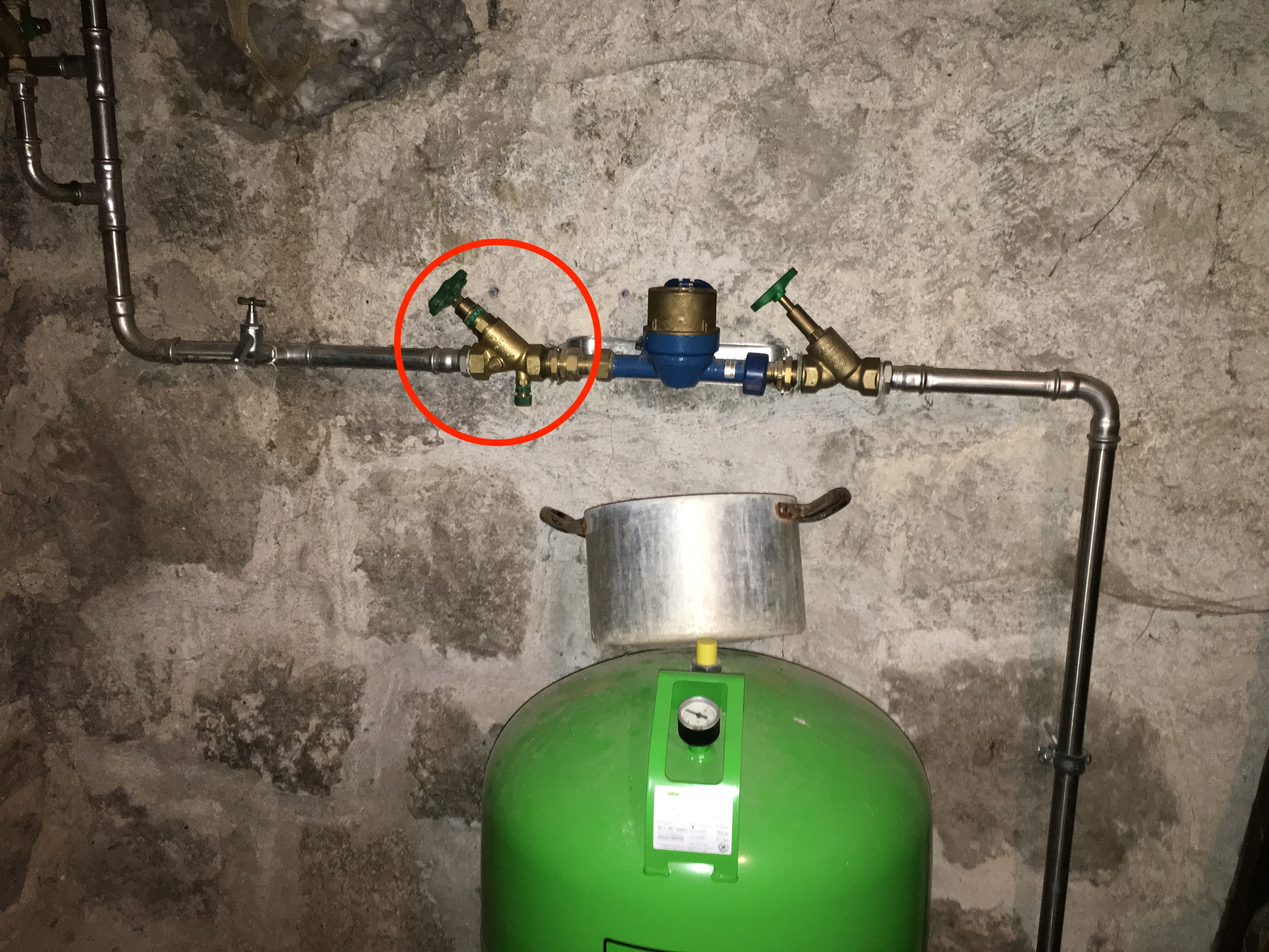
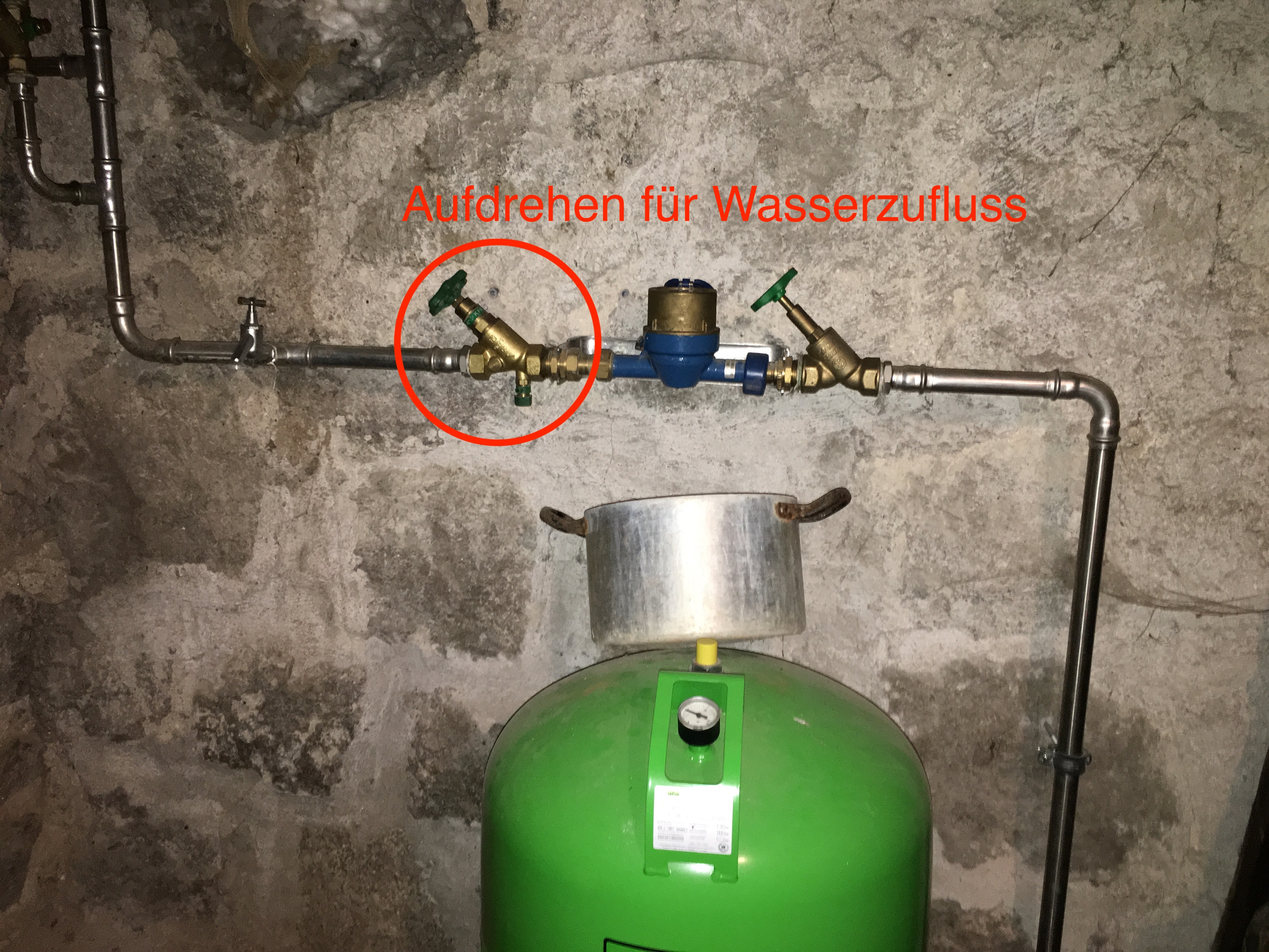
Added Text for Haustechnik

Changed region(s): [[0.3125, 0.1865, 0.8125, 0.2487]]

diff --git a/haustechnik.html b/haustechnik.html
@@ -112,7 +112,8 @@
 
 	<div class="col-md-12">
 		<h2>Wasser und Wasserdruck</h2>
-		<p>Hier war die Idee, die gelben Teppichplatten sowie die normalen Teppiche zu entfernen. Unter den gelben Teppichplatten befinden sich die gleichen Dielen wie im Wohnzimmer. Sie sind in sehr gutem Zustand und müssten „nur" geschliffen und eingeölt werden. Damit es etwas heller wird, wären neue helle Lampen (LED) gut und unter der Treppe eine indirekte Beleuchtung in Form von einer LED-Leiste, die im Deckenüberhang gut versteckt werden kann. </p>
+		<p>Als erstes muss der Hahn für die Wasserzufuhr aufgedreht werden. Damit der Wasserdruck ausreichend ist muss wie im zweiten Bild zu sehen die Pumpe nach links gedreht werden.
+			 <br>Am Ende des Aufenthalts bitte die Pumpe wieder ausgeschalten und den Hahn zudrehen	.</p>
 		<div class="row">
 			<div class="col-md-6">
 											<!--href gibt angeklicktes Bild zurück, src das was auf der Seite angezeigt wird   //matthiasheg.github.io/schwarzwaldhaus.github.io/Bilder/Erdgeschoss/Eingangsbereich1.JPG -->
@@ -123,6 +124,23 @@
 			</div>
 		</div>
 		</div>
+
+		<div class="col-md-12">
+			<h2>Warmwasser im Bad</h2>
+			<p>Im Nebenraum (Garage) müssen im Hauptsicherungskasten die ersten 3 Sicherungen von links eingeschaltet werden. Damit wird der große Boiler mit Strom versorgt.
+					<br>Auf der Anzeige des Boilers ist die vorhandene Warmwassermenge in Liter zu sehen.
+					<br>Der Hahn rechts neben dem Boiler (s. Bild) ist die Leitung, für das warme Wasser in Richtung Bad. Aktuell läuft der Boiler über (Wasser tropft unterhalb des Boilers raus), wenn man den Hahn aufreht ohne im Bad Warmwasser zu entnehmen. Wenn man Warmwasser im Bad entnimmt hält sich der Überlauf in Grenzen und so kann man wenigstens warm duschen.
+					<br>Am Ende des Aufenthalts bitte die Sicherungen wieder rausmachen und so den Boiler ausschalten.</p>
+			<div class="row">
+				<div class="col-md-6">
+												<!--href gibt angeklicktes Bild zurück, src das was auf der Seite angezeigt wird   //matthiasheg.github.io/schwarzwaldhaus.github.io/Bilder/Erdgeschoss/Eingangsbereich1.JPG -->
+					<p><a href="//matthiasheg.github.io/schwarzwaldhaus.github.io/Bilder/Haustechnik/WarmwasserBoiler2.jpg" class="image-popup"><img src="//matthiasheg.github.io/schwarzwaldhaus.github.io/Bilder/Haustechnik/WarmwasserBoiler2.jpg" alt="Anzeige nicht möglich. Klicken um das Bild zu sehen" class="img-responsive img-rounded"></a></p>
+				</div>
+				<div class="col-md-6">
+					<p><a href="//matthiasheg.github.io/schwarzwaldhaus.github.io/Bilder/Haustechnik/WarmwasserBoiler1.jpg" class="image-popup"><img src="//matthiasheg.github.io/schwarzwaldhaus.github.io/Bilder/Haustechnik/WarmwasserBoiler1.jpg" alt="Anzeige nicht möglich. Klicken um das Bild zu sehen" class="img-responsive img-rounded"></a></p>
+				</div>
+			</div>
+			</div>
 
 
 	<div class="fh5co-spacer fh5co-spacer-lg"></div>
